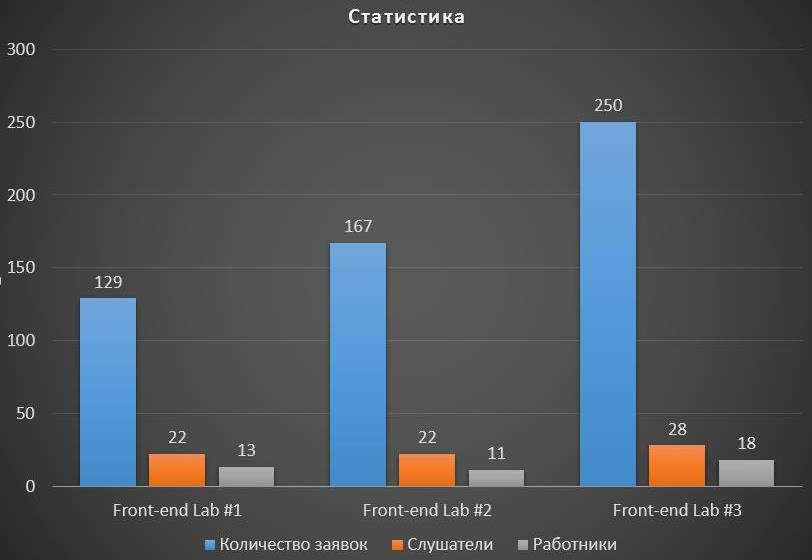
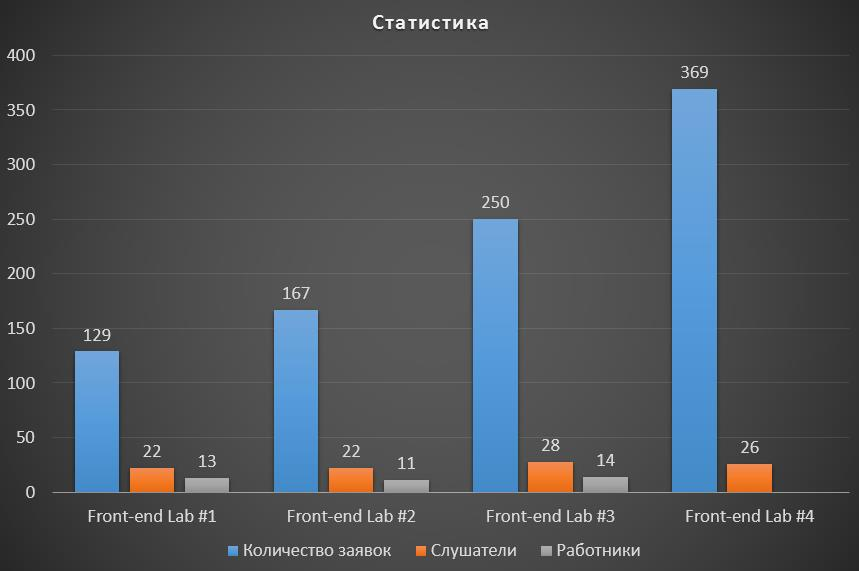
update

diff --git a/index.html b/index.html
@@ -125,7 +125,7 @@
 
                 <section>
                     <h2>Немного статистики</h2>
-                    <p>на базе трёх последних наборов слушателей на тренинги по Front-end/JavaScript Development (EPAM, Минск)</p>
+                    <p>на базе четерёх последних наборов слушателей на тренинги по Front-end/JavaScript Development (EPAM, Минск)</p>
                 </section>
 
                 <section data-background="images/statistics.jpg"></section>
@@ -388,32 +388,19 @@
                         <li>https://www.codeschool.com/courses/try-git</li>
                     </ul>
                 </section>
-
-                <section data-background="images/starcraft2.jpg">
-                   <h2 class="speaker-name">Внезапно</h2>
-               </section>
-
-                <section data-background="images/starcraft_mc.png">
-
-                </section>
-
-                <section>
-                        <p>There <b style="text-decoration: underline ">strategy</b></p>
-                        <p class="fragment">And there's <b style="text-decoration: underline">execution</b></p>
-                        <p class="fragment">And execution is <b style="color: yellow">hard</b></p>
-                </section>
-
+                
                 <section>
                     <h2>Спасибо!</h2>
+                    <img src="images/linux_cat.jpg" alt=""/>
                 </section>
 
                 <section>
                     <h2>Вопросы?</h2>
                     <p>Слайды тут:</p>
                     <a style="font-size: 2em" href="http://goo.gl/bbnyya">http://goo.gl/bbnyya</a>
-                    <br /><br />
-                    <p>Записаться на оффлайн курсы:</p>
-                    <a style="font-size: 2em" href="http://goo.gl/T8YoMx">http://goo.gl/T8YoMx</a>
+                    <!--<br /><br />-->
+                    <!--<p>Записаться на оффлайн курсы:</p>-->
+                    <!--<a style="font-size: 2em" href="http://goo.gl/T8YoMx">http://goo.gl/T8YoMx</a>-->
                 </section>
 
                 <section>
